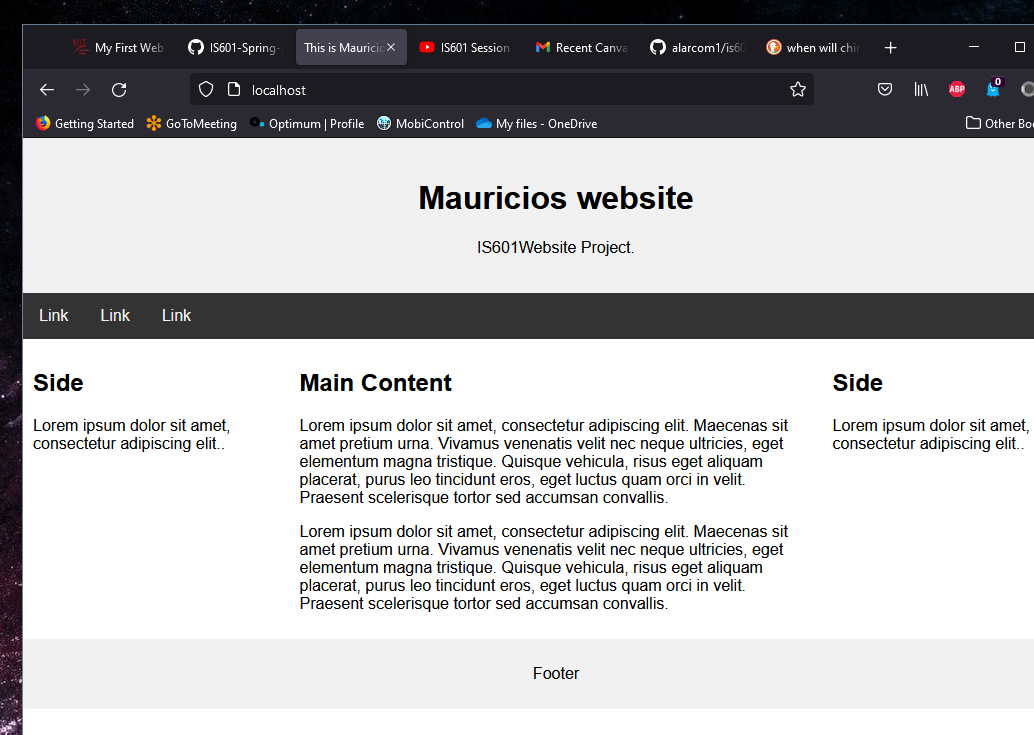
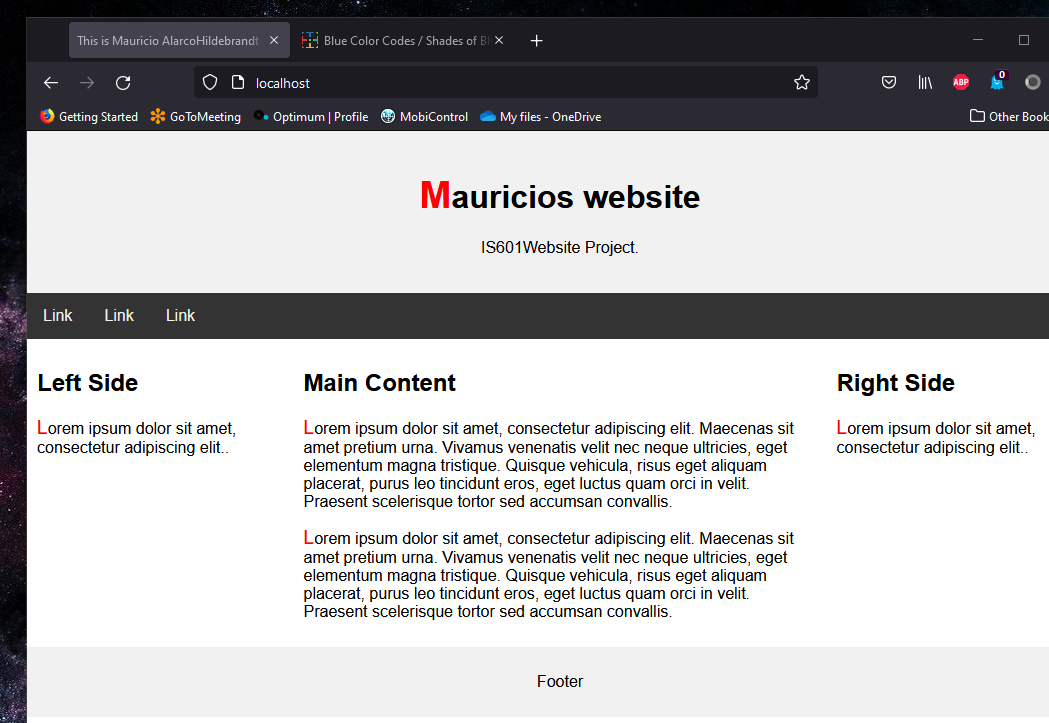
updated css, index, and screenshot

Changed region(s): [[0.0, 0.0, 1.0, 1.0], [0.4023, 0.2434, 0.6809, 0.3651], [0.4952, 0.9129, 0.5571, 0.9737]]

diff --git a/app/templates/index.html b/app/templates/index.html
@@ -14,7 +14,7 @@
 <body>
 
 <div class="header">
-  <h1>Mauricios website</h1>
+  <h1><span class="red makebigger">M</span>auricios website</h1>
   <p>IS601Website Project.</p>
 </div>
 
@@ -25,20 +25,20 @@
 </div>
 
 <div class="row">
-  <div class="column side">
-    <h2>Side</h2>
-    <p>Lorem ipsum dolor sit amet, consectetur adipiscing elit..</p>
+  <div id="left_side" class="column side">
+    <h2>Left Side</h2>
+    <p><span class="red makebigger">L</span>orem ipsum dolor sit amet, consectetur adipiscing elit..</p>
   </div>
 
-  <div class="column middle">
+  <div id="main_content" class="column middle">
         <h2>Main Content</h2>
-        <p>Lorem ipsum dolor sit amet, consectetur adipiscing elit. Maecenas sit amet pretium urna. Vivamus venenatis velit nec neque ultricies, eget elementum magna tristique. Quisque vehicula, risus eget aliquam placerat, purus leo tincidunt eros, eget luctus quam orci in velit. Praesent scelerisque tortor sed accumsan convallis.</p>
-        <p>Lorem ipsum dolor sit amet, consectetur adipiscing elit. Maecenas sit amet pretium urna. Vivamus venenatis velit nec neque ultricies, eget elementum magna tristique. Quisque vehicula, risus eget aliquam placerat, purus leo tincidunt eros, eget luctus quam orci in velit. Praesent scelerisque tortor sed accumsan convallis.</p>
+        <span class="red makebigger">L</span>orem ipsum dolor sit amet, consectetur adipiscing elit. Maecenas sit amet pretium urna. Vivamus venenatis velit nec neque ultricies, eget elementum magna tristique. Quisque vehicula, risus eget aliquam placerat, purus leo tincidunt eros, eget luctus quam orci in velit. Praesent scelerisque tortor sed accumsan convallis.</p>
+        <span class="red makebigger">L</span>orem ipsum dolor sit amet, consectetur adipiscing elit. Maecenas sit amet pretium urna. Vivamus venenatis velit nec neque ultricies, eget elementum magna tristique. Quisque vehicula, risus eget aliquam placerat, purus leo tincidunt eros, eget luctus quam orci in velit. Praesent scelerisque tortor sed accumsan convallis.</p>
   </div>
 
-  <div class="column side">
-    <h2>Side</h2>
-    <p>Lorem ipsum dolor sit amet, consectetur adipiscing elit..</p>
+  <div id="right_side" class="column side">
+    <h2>Right Side</h2>
+    <span class="red makebigger">L</span>orem ipsum dolor sit amet, consectetur adipiscing elit..</p>
   </div>
 </div>
 

diff --git a/app/static/css/style.css b/app/static/css/style.css
@@ -8,6 +8,16 @@ body {
     margin: 0;
 }
 
+/* red font for span */
+.red {
+  color: #ff0000;
+}
+
+/* make font bigger */
+.makebigger {
+  font-size: 120%;
+}
+
 /* Style the header */
 .header {
   background-color: #f1f1f1;
